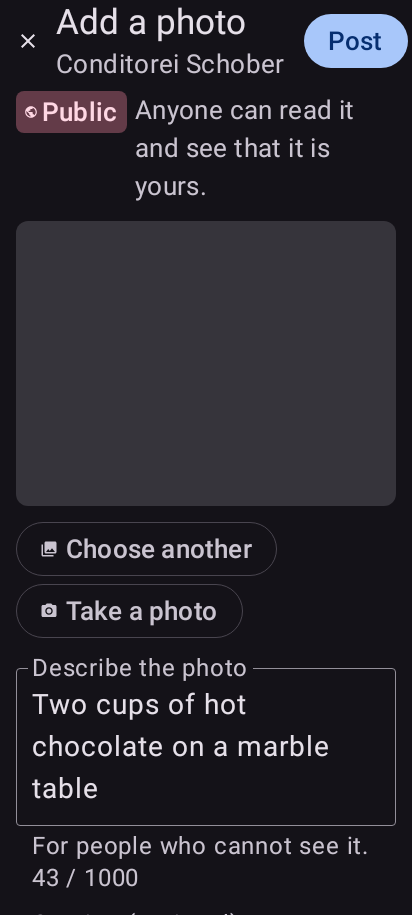
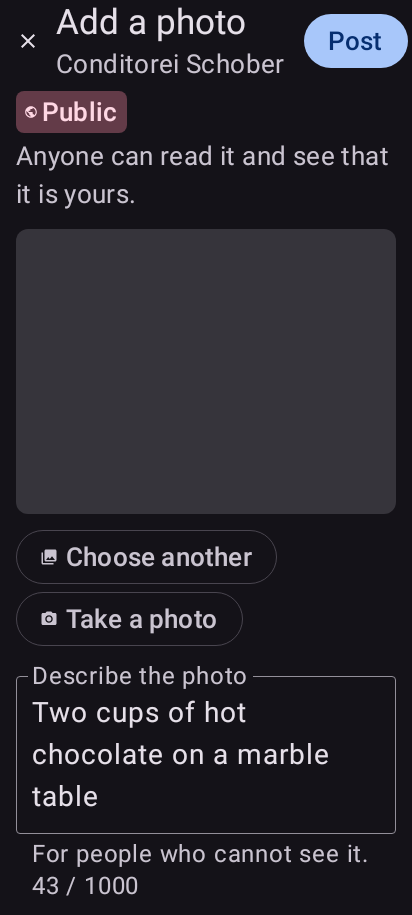
fix(write): the Public note goes under its badge at a large font
At 200 % font the sentence beside the badge was a narrow column one line
longer or more. It now goes under the badge when it takes more lines
beside it than on the whole width; at the normal font it stays beside.

diff --git a/androidApp/src/test/kotlin/to/pubky/maps/android/KeptNoteLargeFontTest.kt b/androidApp/src/test/kotlin/to/pubky/maps/android/KeptNoteLargeFontTest.kt
@@ -1,0 +1,112 @@
+package to.pubky.maps.android
+
+import androidx.compose.runtime.Composable
+import androidx.compose.runtime.CompositionLocalProvider
+import androidx.compose.ui.platform.LocalDensity
+import androidx.compose.ui.semantics.SemanticsActions
+import androidx.compose.ui.test.getUnclippedBoundsInRoot
+import androidx.compose.ui.test.junit4.createComposeRule
+import androidx.compose.ui.test.onNodeWithText
+import androidx.compose.ui.text.TextLayoutResult
+import androidx.compose.ui.unit.Density
+import androidx.compose.ui.unit.DpRect
+import org.junit.Assert.assertEquals
+import org.junit.Assert.assertTrue
+import org.junit.Rule
+import org.junit.Test
+import org.junit.runner.RunWith
+import org.robolectric.RobolectricTestRunner
+import org.robolectric.annotation.Config
+import org.robolectric.annotation.GraphicsMode
+import to.pubky.maps.ui.PubkyMapsTheme
+import to.pubky.maps.write.PostPage
+import to.pubky.maps.write.TagPage
+import to.pubky.maps.write.TagPageState
+
+/**
+ * The "Public" note of the write pages on a 412 dp phone: at the normal font its sentence sits beside
+ * the badge; at Android's largest font size (200 %) it goes under the badge, on the whole width, instead
+ * of a narrow column beside it. Native graphics, so text is measured with real fonts.
+ */
+@RunWith(RobolectricTestRunner::class)
+@GraphicsMode(GraphicsMode.Mode.NATIVE)
+@Config(qualifiers = "w412dp-h915dp")
+class KeptNoteLargeFontTest {
+    @get:Rule
+    val compose = createComposeRule()
+
+    private fun show(
+        fontScale: Float,
+        page: @Composable () -> Unit,
+    ) {
+        compose.setContent {
+            val density = LocalDensity.current
+            CompositionLocalProvider(LocalDensity provides Density(density.density, fontScale = fontScale)) {
+                PubkyMapsTheme { page() }
+            }
+        }
+    }
+
+    private val post: @Composable () -> Unit = {
+        PostPage(placeName = "Conditorei Schober", text = "", onTextChange = {}, onPost = {}, onClose = {})
+    }
+
+    private val tag: @Composable () -> Unit = {
+        TagPage(TagPageState(placeName = "Conditorei Schober", mine = emptyList(), suggestions = emptyList()), {}, {}, {}, {}, {})
+    }
+
+    private fun bounds(text: String): DpRect =
+        compose.onNodeWithText(text, substring = true, useUnmergedTree = true).getUnclippedBoundsInRoot()
+
+    private fun lines(text: String): Int {
+        val layouts = mutableListOf<TextLayoutResult>()
+        compose
+            .onNodeWithText(text, substring = true, useUnmergedTree = true)
+            .fetchSemanticsNode()
+            .config[SemanticsActions.GetTextLayoutResult]
+            .action
+            ?.invoke(layouts)
+        return layouts.single().lineCount
+    }
+
+    private fun assertUnder() {
+        val badge = bounds("Public")
+        val note = bounds("Anyone can read it")
+        assertTrue("note ${note.top} under the badge ${badge.bottom}", note.top >= badge.bottom)
+        assertTrue("note on the whole width, from ${note.left}", note.left < badge.right)
+    }
+
+    private fun assertBeside() {
+        val badge = bounds("Public")
+        val note = bounds("Anyone can read it")
+        assertTrue("note ${note.left} beside the badge ${badge.right}", note.left > badge.right)
+        assertTrue("note starts on the badge's line", note.top < badge.bottom)
+    }
+
+    @Test
+    fun atLargeFontThePostPageNoteGoesUnderTheBadge() {
+        show(2f, post)
+        assertUnder()
+        // On the whole width the sentence takes 2 lines; beside the badge it took 3.
+        assertEquals(2, lines("Anyone can read it"))
+    }
+
+    @Test
+    fun atLargeFontTheTagPageNoteGoesUnderTheBadge() {
+        show(2f, tag)
+        assertUnder()
+    }
+
+    @Test
+    fun atTheNormalFontThePostPageNoteStaysBesideTheBadge() {
+        show(1f, post)
+        assertBeside()
+        assertEquals(1, lines("Anyone can read it"))
+    }
+
+    @Test
+    fun atTheNormalFontTheTagPageNoteStaysBesideTheBadge() {
+        show(1f, tag)
+        assertBeside()
+    }
+}

diff --git a/shared/src/commonMain/kotlin/to/pubky/maps/write/WriteComponents.kt b/shared/src/commonMain/kotlin/to/pubky/maps/write/WriteComponents.kt
@@ -29,7 +29,10 @@ import androidx.compose.material3.TopAppBar
 import androidx.compose.runtime.Composable
 import androidx.compose.ui.Alignment
 import androidx.compose.ui.Modifier
+import androidx.compose.ui.layout.Layout
 import androidx.compose.ui.text.style.TextOverflow
+import androidx.compose.ui.unit.Constraints
+import androidx.compose.ui.unit.constrainHeight
 import androidx.compose.ui.unit.dp
 import to.pubky.maps.ui.AppIcons
 
@@ -86,6 +89,13 @@ fun KeptBadge(
 /**
  * The badge and its sentence, shown before a write is sent, at body size in the secondary text
  * colour (WCAG AA in both themes); [more] adds what else the user should know first.
+ *
+ * The sentence goes beside the badge when it takes no more lines there than on the whole width, else
+ * under the badge: at 200 % font the badge takes a third of a phone's width, and beside it the
+ * sentence would be a narrow column one line longer or more ("Anyone can read it / and see that it
+ * is / yours."). Counting lines rather than comparing heights keeps it under then even when the badge's
+ * own row makes both arrangements about as tall, because short ragged lines are what make it hard to
+ * read.
  */
 @Composable
 fun KeptNote(
@@ -93,12 +103,35 @@ fun KeptNote(
     modifier: Modifier = Modifier,
     more: String? = null,
 ) {
-    Row(modifier, verticalAlignment = Alignment.Top) {
-        KeptBadge(kept)
-        Spacer(Modifier.width(8.dp))
-        NoteText(listOfNotNull(kept.explanation, more).joinToString(" "))
+    Layout(
+        contents =
+            listOf(
+                { KeptBadge(kept) },
+                { NoteText(listOfNotNull(kept.explanation, more).joinToString(" ")) },
+            ),
+        modifier = modifier,
+    ) { (badgeParts, textParts), constraints ->
+        val badge = badgeParts.single().measure(constraints.copy(minWidth = 0, minHeight = 0))
+        val text = textParts.single()
+        val width = if (constraints.hasBoundedWidth) constraints.maxWidth else badge.width + text.maxIntrinsicWidth(Constraints.Infinity)
+        val sideGap = KeptNoteSideGap.roundToPx()
+        val sideWidth = (width - badge.width - sideGap).coerceAtLeast(0)
+        // Text of the same style grows by whole lines, so the taller one is the one with more lines.
+        val beside = sideWidth > 0 && text.minIntrinsicHeight(sideWidth) <= text.minIntrinsicHeight(width)
+        val note = text.measure(Constraints(maxWidth = if (beside) sideWidth else width))
+        val underGap = KeptNoteUnderGap.roundToPx()
+        val height =
+            constraints.constrainHeight(if (beside) maxOf(badge.height, note.height) else badge.height + underGap + note.height)
+        layout(width, height) {
+            badge.placeRelative(0, 0)
+            if (beside) note.placeRelative(badge.width + sideGap, 0) else note.placeRelative(0, badge.height + underGap)
+        }
     }
 }
+
+/** The space between [KeptBadge] and its sentence beside it, and under it. */
+private val KeptNoteSideGap = 8.dp
+private val KeptNoteUnderGap = 4.dp
 
 /** A line of explanation on a write page: 14 sp in the secondary text colour, readable in both themes. */
 @Composable

diff --git a/androidApp/src/test/kotlin/to/pubky/maps/android/WriteScreenshotTest.kt b/androidApp/src/test/kotlin/to/pubky/maps/android/WriteScreenshotTest.kt
@@ -342,6 +342,13 @@ class WriteScreenshotTest {
     @Test
     fun postPageTabletDark() = capture("write-post", Device.Tablet, dark = true) { PostPageShot() }
 
+    /** At the largest font size (200 %) the "Public" note goes under its badge, on the page's whole width. */
+    @Test
+    fun postPageLargeFontPhoneLight() = capture("write-post", Device.Phone, dark = false, largeFont = true) { PostPageShot() }
+
+    @Test
+    fun postPageLargeFontPhoneDark() = capture("write-post", Device.Phone, dark = true, largeFont = true) { PostPageShot() }
+
     @Composable
     private fun PhotoPageEmptyShot() {
         PhotoPage(PhotoPageState(placeName = "Conditorei Schober"), {}, {}, {}, {}, {}, {})
